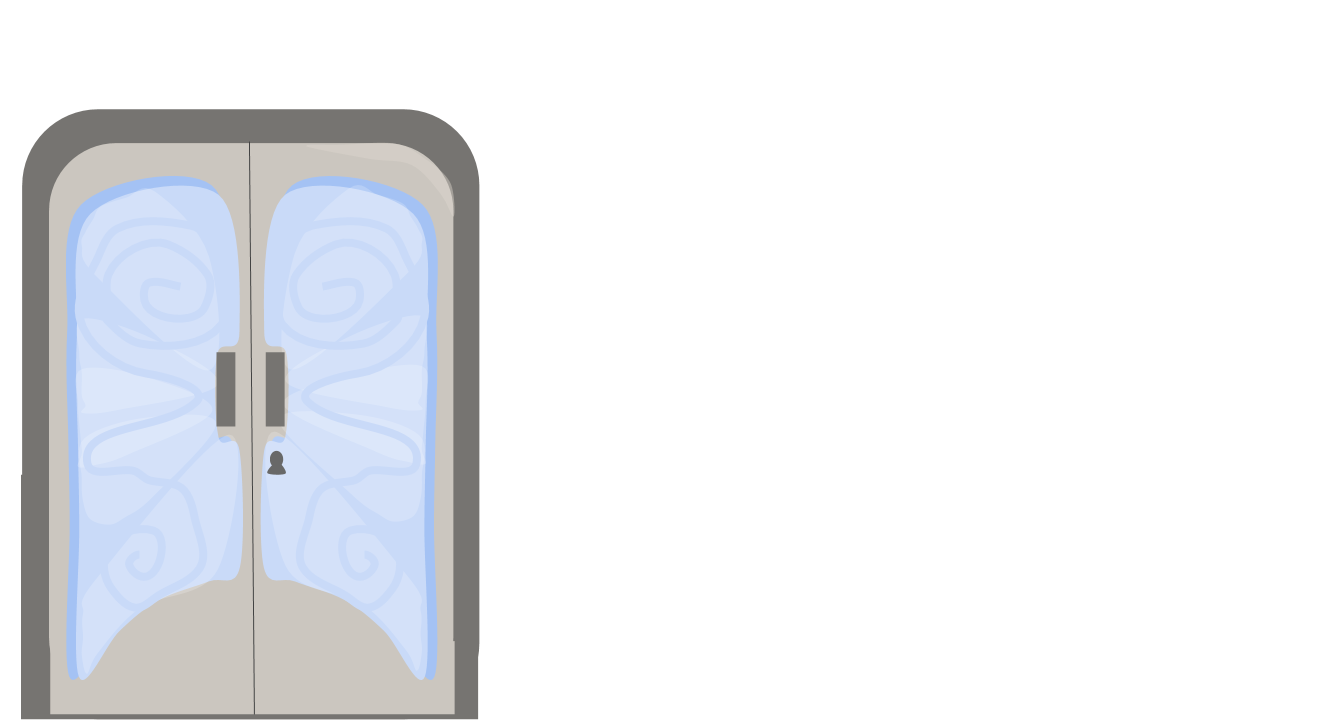
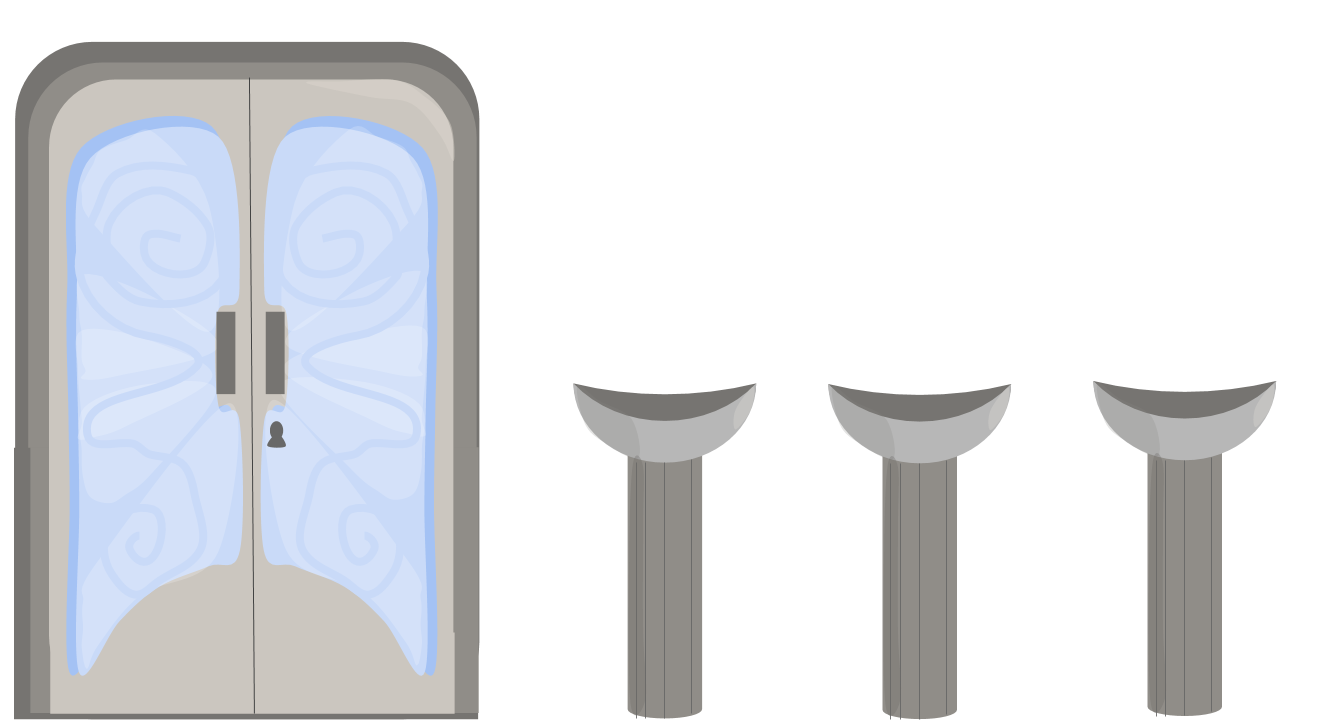
Added pedastals to act 7 door img

diff --git a/content/english/sql_workshop/activity7/_activity7.css b/content/english/sql_workshop/activity7/_activity7.css
@@ -4,7 +4,7 @@
   margin: 2vw;
   width: 10vw;
   height: 10vw;
-  border: 1px solid white;
+  border: transparent;
 }
 
 /* Positions and style for the drop places */

diff --git a/content/english/sql_workshop/plot_continue/_index.md b/content/english/sql_workshop/plot_continue/_index.md
@@ -1,0 +1,30 @@
+---
+title: "Return Totems of Fun"
+description: "Return Totems of Fun"
+date: 2020-07-08
+prereq: "none"
+difficulty: "Beginner"
+draft: false
+translationKey: "sql_activity_9.5"
+---
+<!-- Embed YouTube Video Link here when ready -->
+## Return the Legendary Totems of Fun to The Dear Leader
+
+You have successfully found both Legendary Totems of Fun! The Dear Leader 
+
+{{%notice info%}}
+This Totem was created a month after the previous artifact: 
+the Confetti Cannon (reminder: the Confetti Cannon was created on 1738-09-12).
+{{%/notice%}}
+
+**The Galactic Federation has sent you a brief tutorial on a handy command: LIKE**
+
+![Explain](assets/like_explain.png)
+![Ex](assets/like.png)
+
+#### Using the database called 'items' with a column labeled 'date_created', find the Infinite Buffet Table!
+{{%notice tip%}}
+* Hint 1: The format for the date is Year-Month-Day.
+* Hint 2: This Totem was created a month AFTER the Confetti Cannon (1738-09-12).
+* Hint 3: What is the pattern? Do you need to look for the month at the beginning, end, or anywhere of the value?
+{{%/notice%}}
